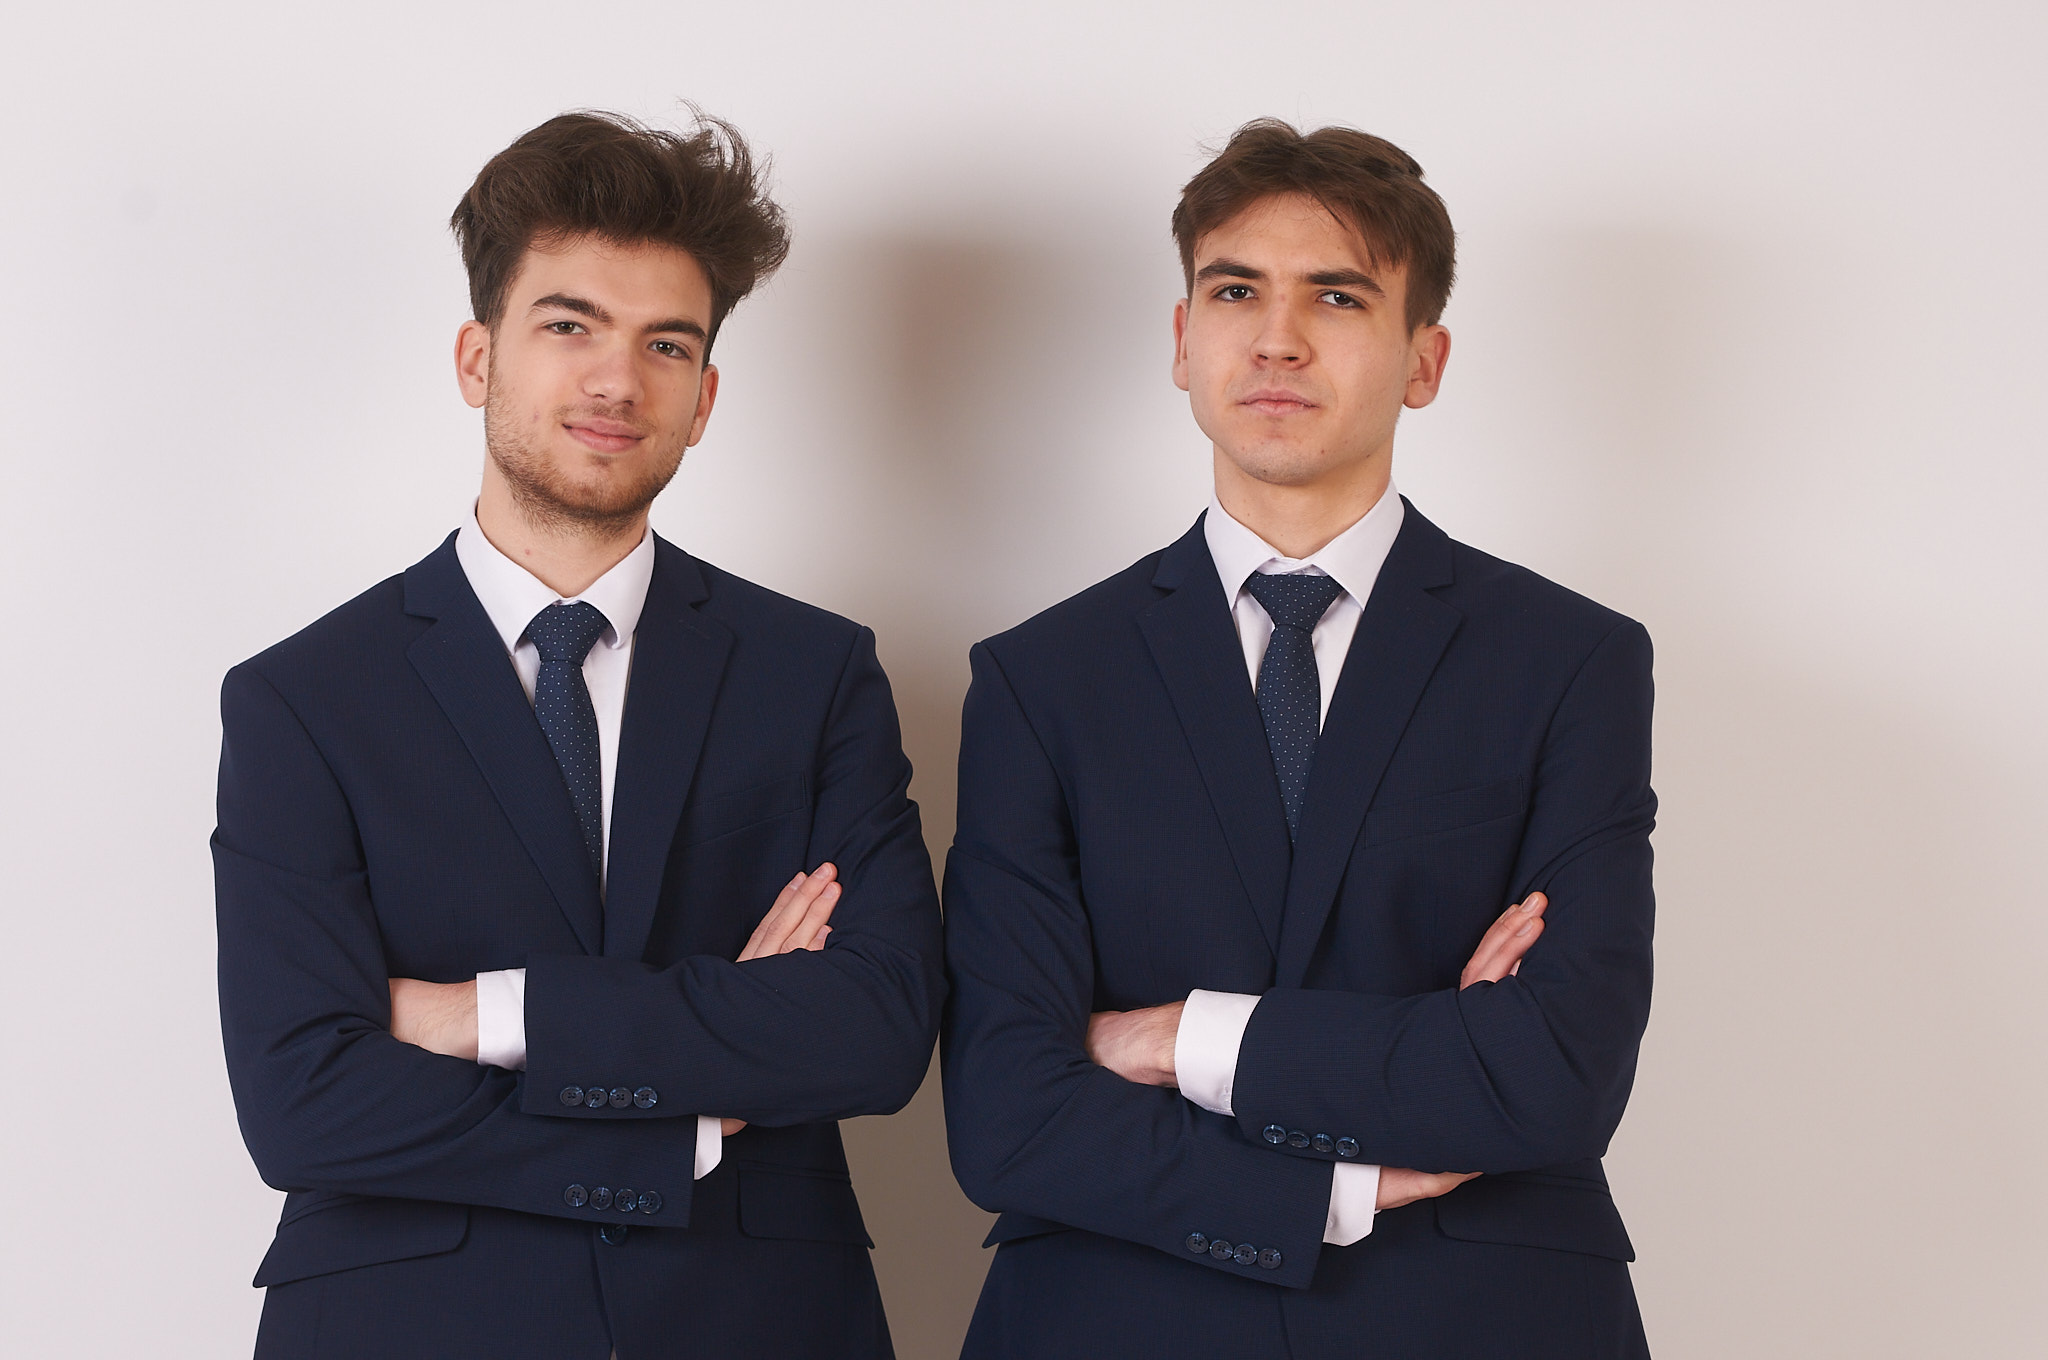
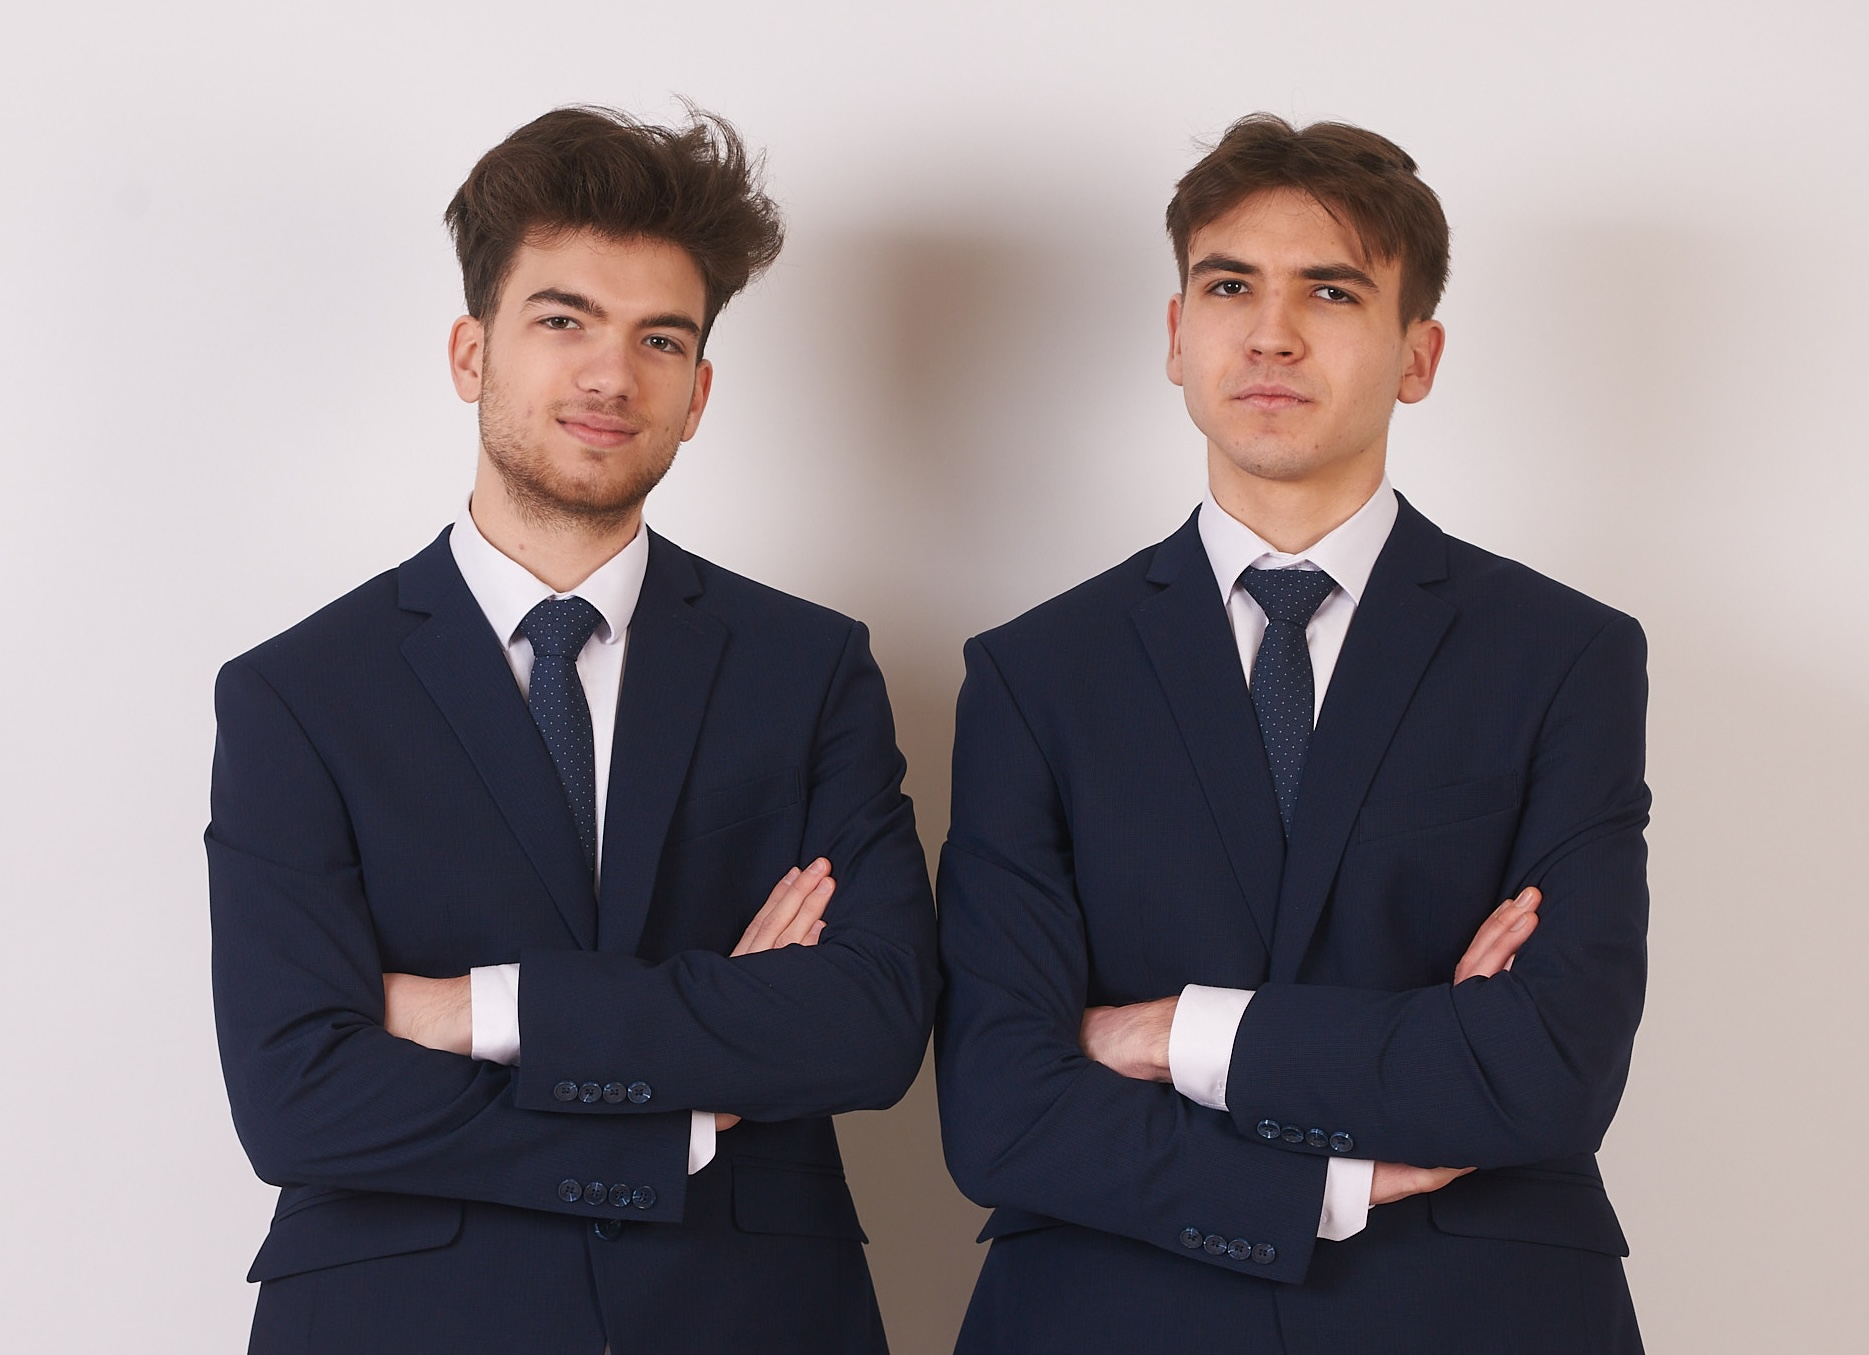
fix & pic

diff --git a/portfolio/app/about/page.tsx b/portfolio/app/about/page.tsx
@@ -45,7 +45,8 @@ export default function AboutPage() {
             <Card className="w-full h-full overflow-hidden">
               <CardContent className="p-0">
                 <Image
-                  src="/about-2.jpeg"
+                  src="/about-1.jpg"
+                  // src="/about-2.jpeg"
                   alt="BNBDEVELOPMENT Team"
                   fill
                   className="object-cover hover:scale-105 transition-transform duration-500"

diff --git a/portfolio/app/team/page.tsx b/portfolio/app/team/page.tsx
@@ -5,7 +5,6 @@ import { Button } from "@/components/ui/button";
 import { ChevronLeft } from "lucide-react";
 import Link from "next/link";
 import { PersonCard } from "@/components/PersonCard";
-import { SmallPersonCard } from "@/components/SmallPersonCard";
 
 const founders = [
   {

diff --git a/portfolio/components/Footer.tsx b/portfolio/components/Footer.tsx
@@ -3,7 +3,7 @@
 import { motion } from "framer-motion";
 import * as React from "react";
 import { Button } from "@/components/ui/button";
-import { Coffee, HeartHandshake, BookOpen } from "lucide-react";
+import { Coffee, BookOpen } from "lucide-react";
 
 
 const Footer = () => {
